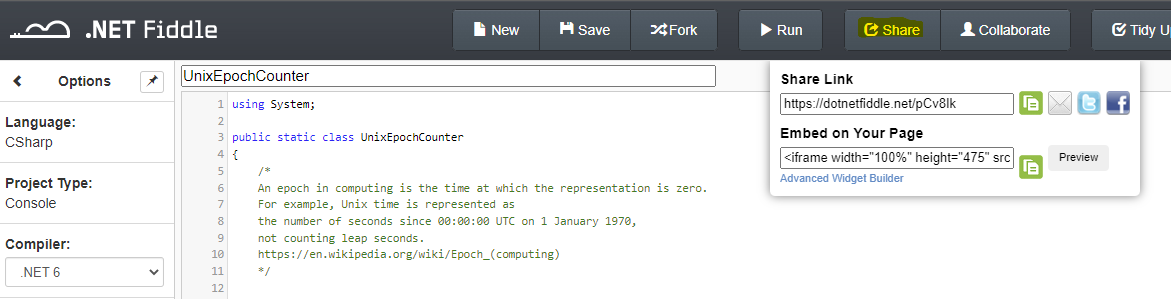
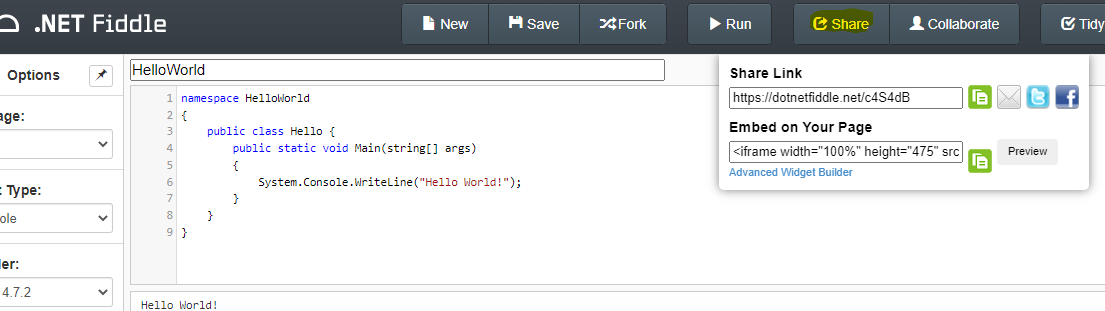
Smaller example

diff --git a/_posts/2022-02-22-compiling-example-code.md b/_posts/2022-02-22-compiling-example-code.md
@@ -5,6 +5,8 @@ categories: [Blog, Styling]
 tags: [.NET Fiddle, compiling, C#, .NET, dotnetfiddle.net, embedding code]
 ---
 
+## What do you need?
+
 All you need is a **.NET Fiddle account** and a saved Fiddle. A Fiddle is like a Github Gist, but only for .NET code. 
 
 There are more tools online that can compile code. I chose .NET Fiddle, because it has nice code completion, Code Highlighting and can be embedded.
@@ -26,8 +28,8 @@ In the .NET Fiddle menu you press the 'Share Button' and copy the 'Embed on Your
 
 Then you paste the code block in your editor. It looks like this:  
 ```HTML
-<iframe width="100%" height="475" src="https://dotnetfiddle.net/Widget/pCv8Ik" frameborder="0"></iframe>
+<iframe width="100%" height="475" src="https://dotnetfiddle.net/Widget/c4S4dB" frameborder="0"></iframe>
 ```
 And now you have a running code block on your site :sunglasses:
 
-<iframe width="100%" height="475" src="https://dotnetfiddle.net/Widget/pCv8Ik" frameborder="0"></iframe>
+<iframe width="100%" height="475" src="https://dotnetfiddle.net/Widget/c4S4dB" frameborder="1"></iframe>
